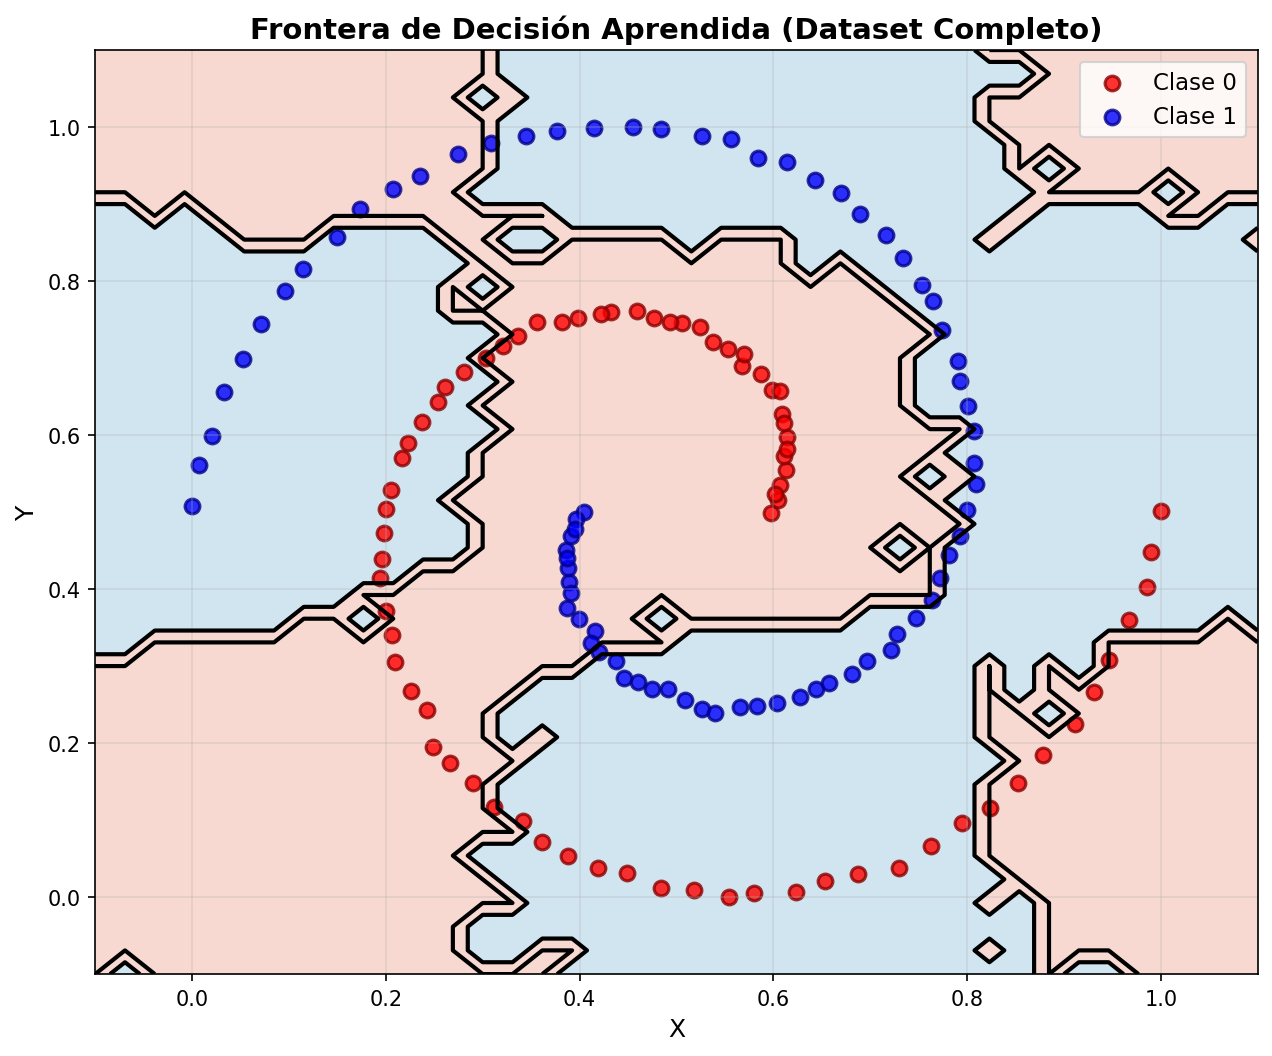
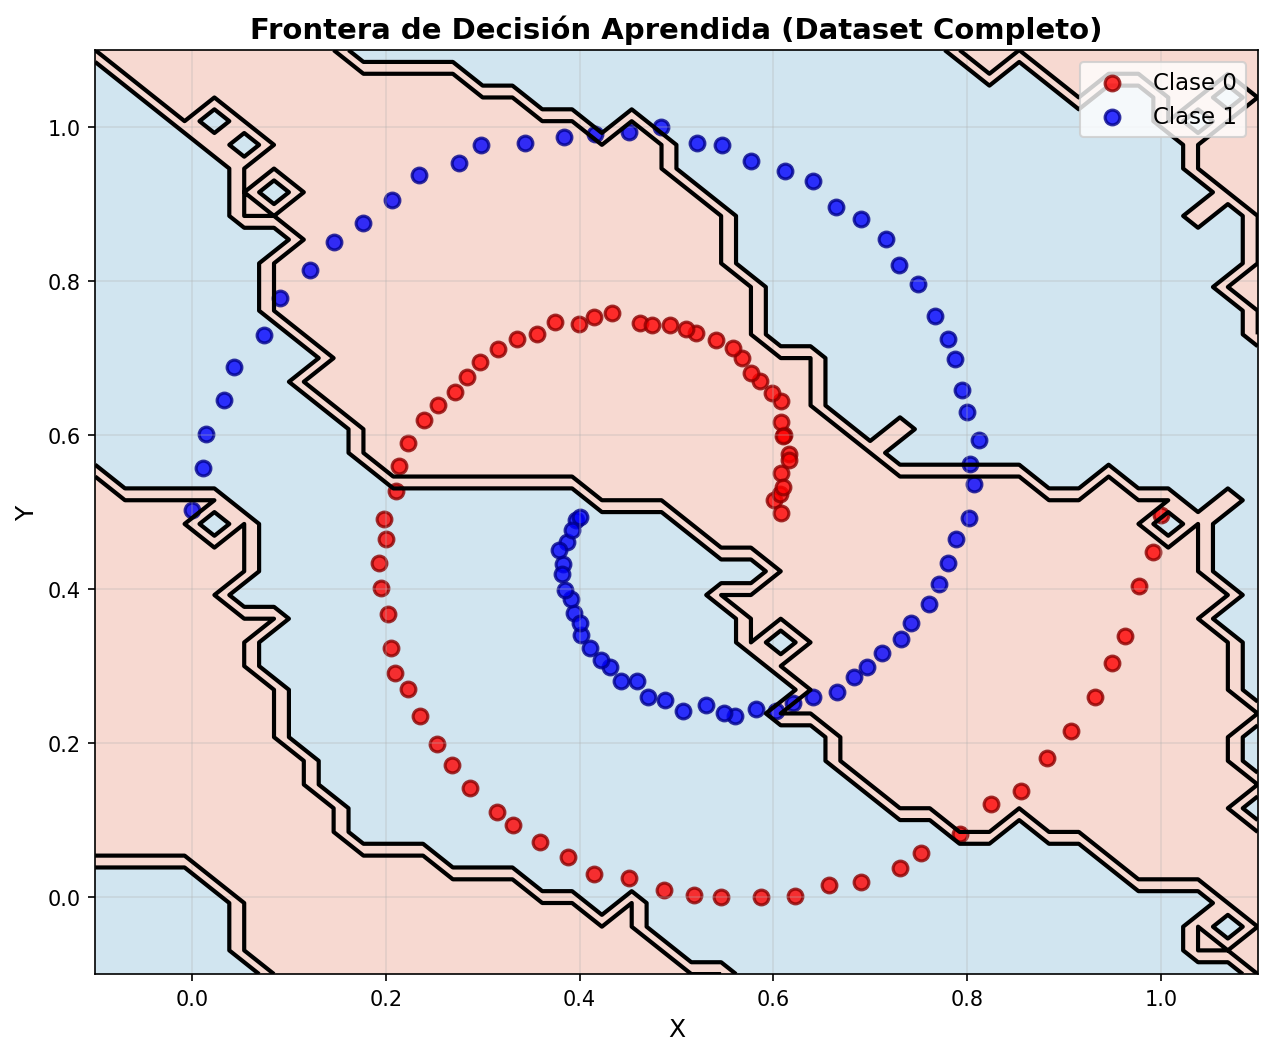
adding cobyla with more shots

diff --git a/src/quantum_circuit.py b/src/quantum_circuit.py
@@ -337,15 +337,16 @@ def predict_single_point(x: float, y: float, params: np.ndarray, shots: int = 10
 
 def predict_batch(X: np.ndarray, params: np.ndarray, shots: int = 100, n_layers: int = 1) -> np.ndarray:
     """
-    Predice clases para múltiples puntos de forma vectorizada.
+    Predice clases para múltiples puntos reutilizando una única instancia QVM.
 
-    Itera sobre cada punto del dataset y aplica predict_single_point.
-    Útil para evaluación del modelo en conjunto de entrenamiento/test.
+    Optimización: En lugar de crear una QVM nueva para cada punto,
+    crea una sola instancia y la reutiliza para todas las predicciones.
+    Esto elimina inconsistencias de compilación y mejora el rendimiento.
 
     Args:
         X: Array de forma (n_samples, 2) con coordenadas de puntos
         params: Parámetros del clasificador
-        shots: Shots por predicción
+        shots: Shots por predicción (default: 100)
         n_layers: Número de capas variacionales (default: 1)
 
     Returns:
@@ -361,17 +362,48 @@ def predict_batch(X: np.ndarray, params: np.ndarray, shots: int = 100, n_layers:
         predictions = predict_batch(X, params, shots=100, n_layers=2)
 
     Nota:
-        Para datasets grandes, esta función puede ser lenta debido a
-        la ejecución individual de cada circuito. Optimizaciones futuras
-        podrían paralelizar las ejecuciones.
+        Esta versión refactorizada reutiliza la QVM para evitar
+        inconsistencias de compilación entre llamadas individuales.
     """
     n_samples = X.shape[0]
+    n_qubits = 2
     predictions = np.zeros(n_samples, dtype=int)
 
-    # Predecir cada punto individualmente
+    # Crear UNA SOLA instancia de QVM para todas las predicciones
+    qc = get_qc(f'{n_qubits}q-qvm')
+
+    # Predecir cada punto usando la MISMA QVM
     for i in range(n_samples):
-        predictions[i] = predict_single_point(
-            X[i, 0], X[i, 1], params, shots, n_layers)
+        # Construir circuito para este punto
+        circuit = build_circuit(X[i, 0], X[i, 1], params, n_layers=n_layers)
+
+        # Crear programa con mediciones
+        measurement_program = Program()
+        ro = measurement_program.declare('ro', 'BIT', n_qubits)
+        measurement_program += circuit
+
+        # Añadir mediciones
+        for q in range(n_qubits):
+            measurement_program += MEASURE(q, ro[q])
+
+        measurement_program.wrap_in_numshots_loop(shots)
+
+        # Ejecutar con la MISMA QVM (reutilizada)
+        executable = qc.compile(measurement_program)
+        result = qc.run(executable)
+
+        # Procesar mediciones
+        measurements = result.readout_data.get('ro')
+
+        # Combinar ambos qubits para clasificación
+        measurements_combined = measurements[:, 0] * 2 + measurements[:, 1]
+
+        # Votar: estados 0,1 → Clase 0;  estados 2,3 → Clase 1
+        votes_class_0 = np.sum((measurements_combined == 0) | (measurements_combined == 1))
+        votes_class_1 = np.sum((measurements_combined == 2) | (measurements_combined == 3))
+
+        # Retornar clase con más votos
+        predictions[i] = 0 if votes_class_0 > votes_class_1 else 1
 
     return predictions
 

diff --git a/main.py b/main.py
@@ -197,14 +197,14 @@ def main():
     print("\n[2/5] Entrenando clasificador (múltiples intentos)...")
 
     # Configuración
-    n_attempts = 3  # 1: rápido, 3: estándar, 5-10: producción
+    n_attempts = 1  # REDUCIDO: 3 → 1 (compensamos con mejor optimizador)
     USE_THREADING = False  # Desactivado (GIL no permite paralelismo real)
 
-    # Parámetros del clasificador
+    # Parámetros del clasificador (OPCIÓN A: COBYLA + más shots)
     n_params = 8      # 2 capas × 2 qubits × 2 rotaciones
-    shots = 100
-    n_layers = 2
-    max_iter = 80
+    shots = 500       # Aumentado 150→300→500 (reduce shot noise: 8% → 4.5%)
+    n_layers = 2      # Mantener arquitectura que funcionó
+    max_iter = 120    # Suficiente para convergencia
 
     if USE_THREADING:
         # Versión paralela (no recomendada - GIL issue)
@@ -238,12 +238,10 @@ def main():
             training_result = classifier.train(
                 X_train, y_train,
                 max_iter=max_iter,
-                method='COBYLA',  # SLSQP paraba en 1 iteración - volvemos a COBYLA
-                # method='SLSQP',     # Nuevo: convergencia más suave y rápida
+                method='COBYLA',    # Volvemos a COBYLA (demostró mejor convergencia)
                 verbose=True,
-                patience=30,        # Ajustado de 20 (era muy estricto)
-                # Ajustado de 1e-4 (ignoraba oscilaciones naturales)
-                min_delta=0.003
+                patience=40,        # Más permisivo que antes (era 30)
+                min_delta=0.002     # Más permisivo que antes (era 0.003)
             )
 
             # Evaluar en train y validation
